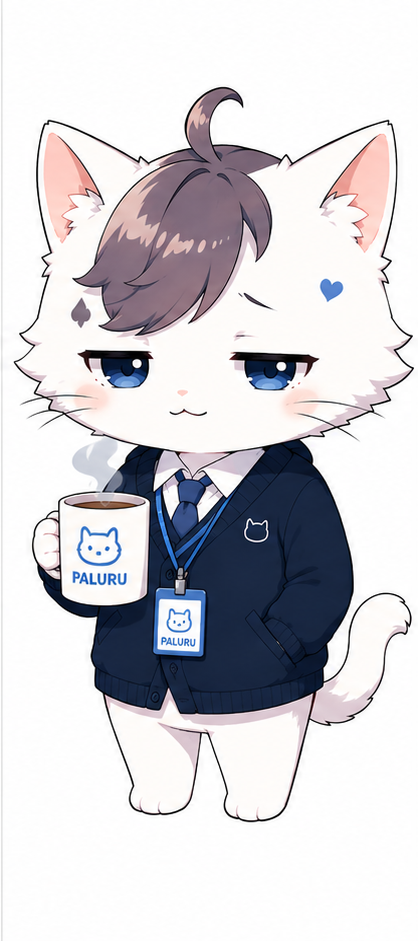
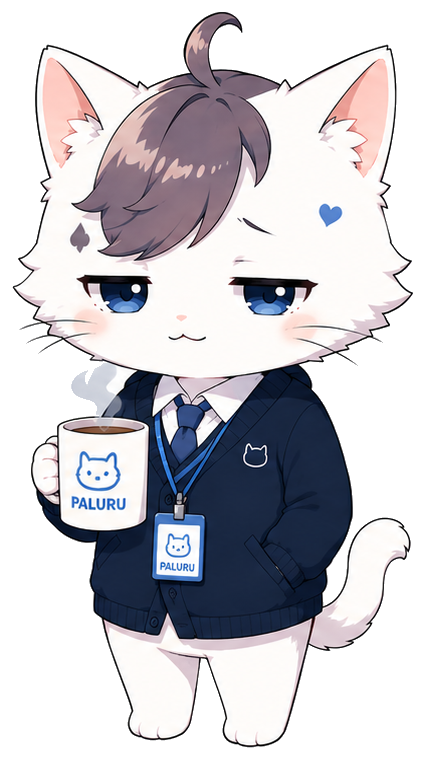
Update README and replace character assets with new images

diff --git a/README.md b/README.md
@@ -8,6 +8,8 @@
 
 「思いついたことをぱるるに預ける」ためのスマホ向けPWAです。
 
+表示用画像は余白トリミング済みです。
+
 ## 構成
 
 - `index.html`: アプリ画面
